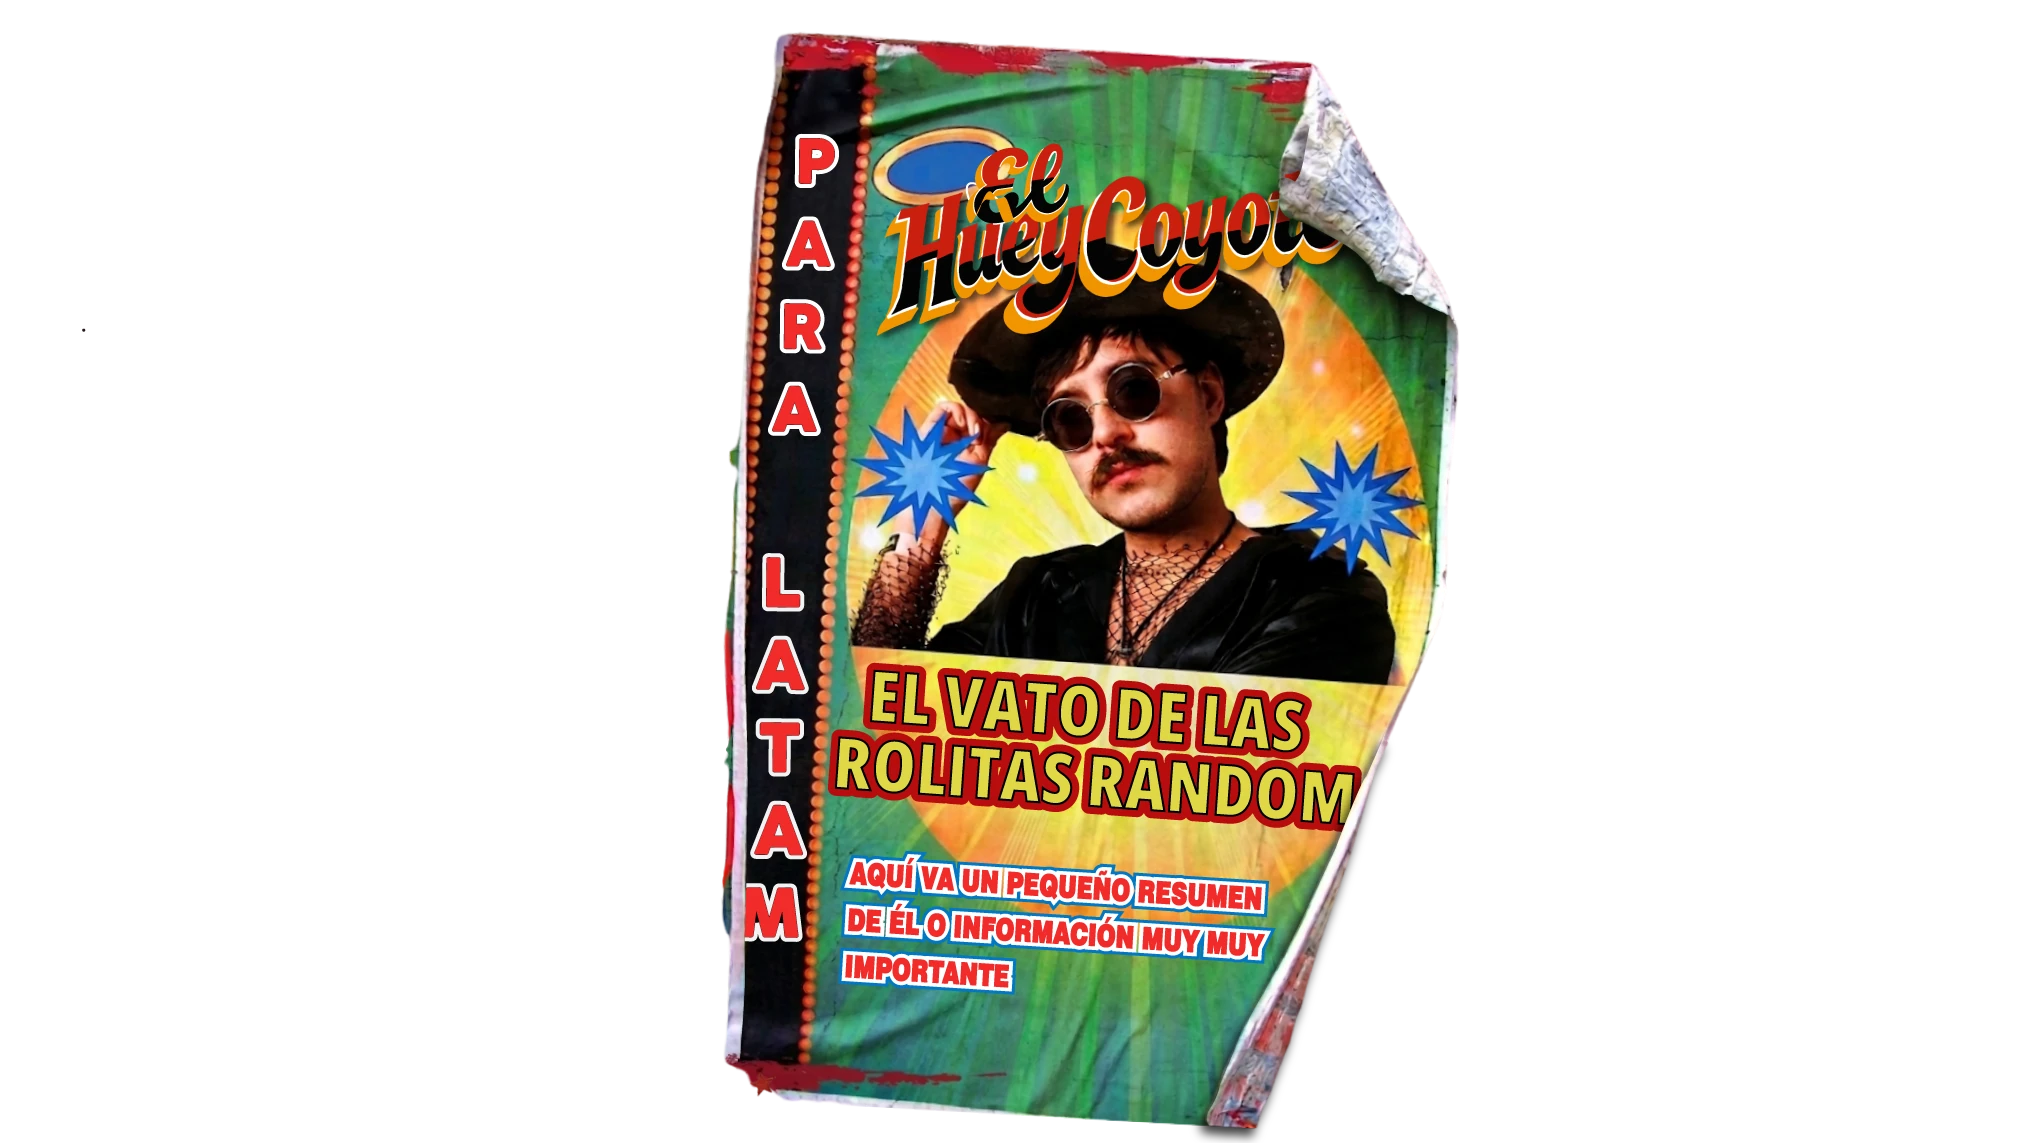
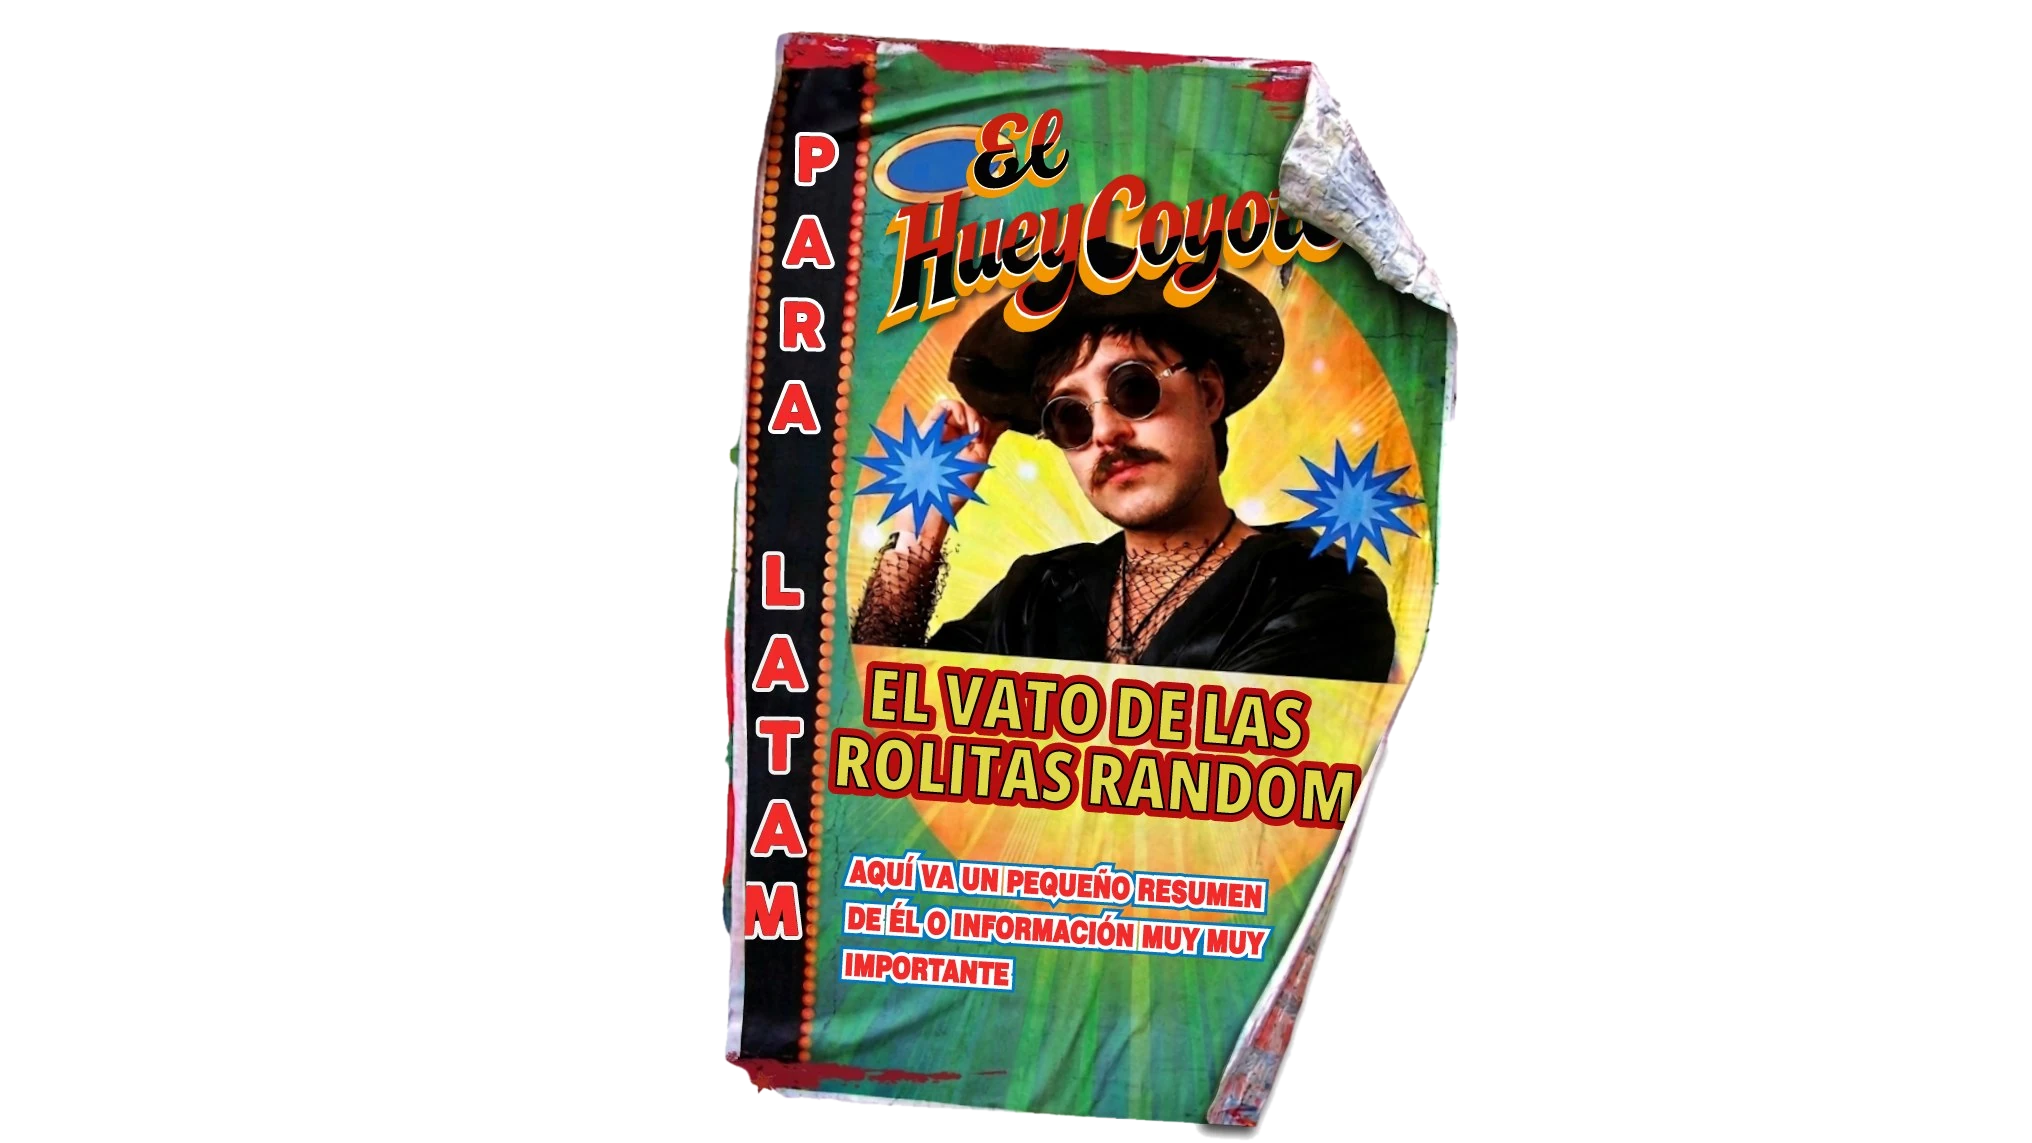
🐺 compu: ¿Ya me conoces? — cartel central reemplazado por nueva version de Ani; eliminado el doble cartel (relleno de tablero bajo el borde inferior, quita el cartel viejo que se asomaba)

Changed region(s): [[0.372, 0.0306, 0.7131, 0.888], [0.341, 0.888, 0.5271, 0.9799], [0.5581, 0.888, 0.6201, 1.0]]

diff --git a/preview/compu/index.html b/preview/compu/index.html
@@ -277,7 +277,7 @@
   <a class="ech-btn ech-tt" href="https://www.tiktok.com/@elhueycoyote?_r=1&_t=ZS-96XC0kJ7a1F" target="_blank" rel="noopener" aria-label="TikTok"><img src="../sitio/assets/compu/ech-tt-svg.webp?v=1" alt="" aria-hidden="true" loading="lazy"><span class="ech-shine" style="-webkit-mask-image:url('../sitio/assets/compu/ech-tt-svg.webp?v=1');mask-image:url('../sitio/assets/compu/ech-tt-svg.webp?v=1')"></span></a>
 </div></section>
 <div class="dmarquee" role="img" aria-label="¿Ya me conoces?"><div class="dtrack"><img src="../sitio/assets/compu/divtext-conoces.png?v=10" alt="¿Ya me conoces?"><img src="../sitio/assets/compu/divtext-conoces.png?v=10" alt="" aria-hidden="true"></div></div>
-<section class="dsec reveal" id="sec-conoces"><img class="bg" src="../sitio/assets/compu/bg-conoces-full.webp?v=2" alt="¿Ya me conoces? — Sobre El Huey Coyote" loading="lazy" decoding="async"><div class="poster-hit poster-hit-1" aria-hidden="true"></div><div class="poster-hit poster-hit-2" aria-hidden="true"></div><div class="poster-hit poster-hit-3" aria-hidden="true"></div><img class="poster-ov poster-ov-1" src="../sitio/assets/compu/conoces-poster1.webp?v=3" alt="" aria-hidden="true" loading="lazy"><img class="poster-ov poster-ov-2" src="../sitio/assets/compu/conoces-poster2.webp?v=3" alt="" aria-hidden="true" loading="lazy"><img class="poster-ov poster-ov-3" src="../sitio/assets/compu/conoces-poster3.webp?v=3" alt="" aria-hidden="true" loading="lazy"></section>
+<section class="dsec reveal" id="sec-conoces"><img class="bg" src="../sitio/assets/compu/bg-conoces-full.webp?v=3" alt="¿Ya me conoces? — Sobre El Huey Coyote" loading="lazy" decoding="async"><div class="poster-hit poster-hit-1" aria-hidden="true"></div><div class="poster-hit poster-hit-2" aria-hidden="true"></div><div class="poster-hit poster-hit-3" aria-hidden="true"></div><img class="poster-ov poster-ov-1" src="../sitio/assets/compu/conoces-poster1.webp?v=3" alt="" aria-hidden="true" loading="lazy"><img class="poster-ov poster-ov-2" src="../sitio/assets/compu/conoces-poster2.webp?v=4" alt="" aria-hidden="true" loading="lazy"><img class="poster-ov poster-ov-3" src="../sitio/assets/compu/conoces-poster3.webp?v=3" alt="" aria-hidden="true" loading="lazy"></section>
 <div class="dmarquee" role="img" aria-label="Con la raza"><div class="dtrack"><img src="../sitio/assets/compu/divtext-conlaraza.png?v=1" alt="Con la raza"><img src="../sitio/assets/compu/divtext-conlaraza.png?v=1" alt="" aria-hidden="true"></div></div>
 <section class="reveal" id="sec-collabs">
   <div class="galeria-compu">
